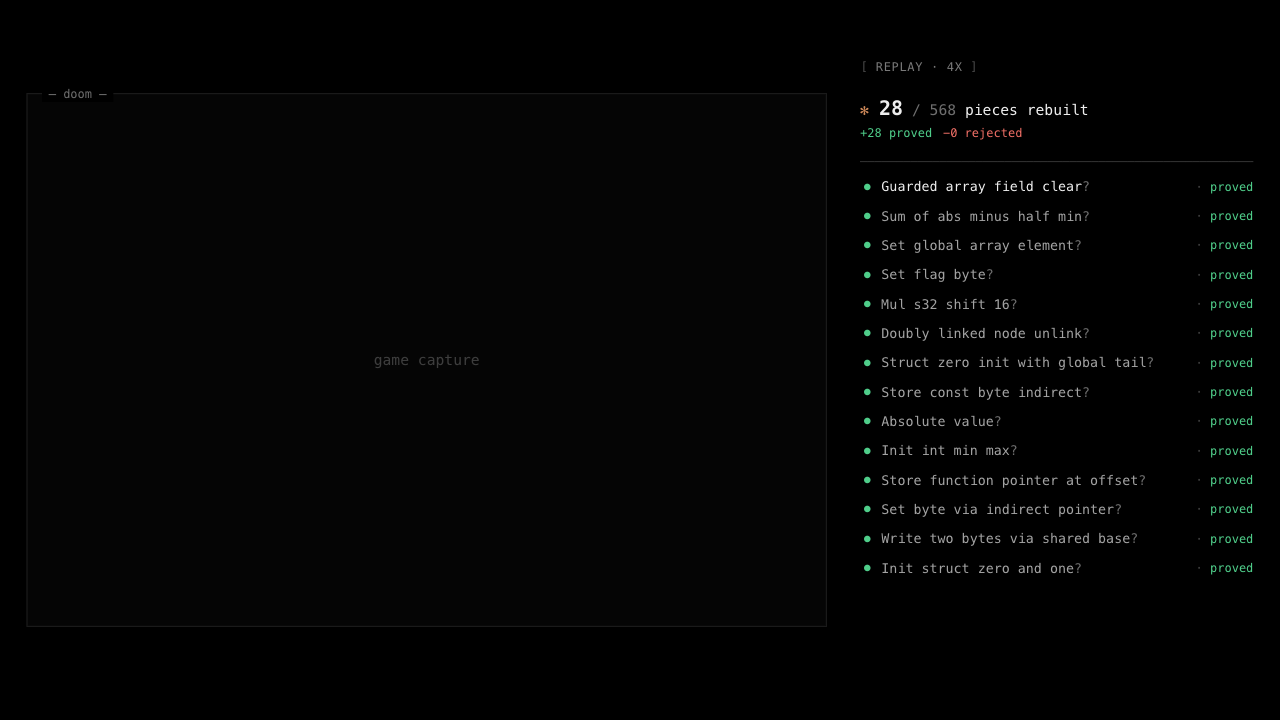
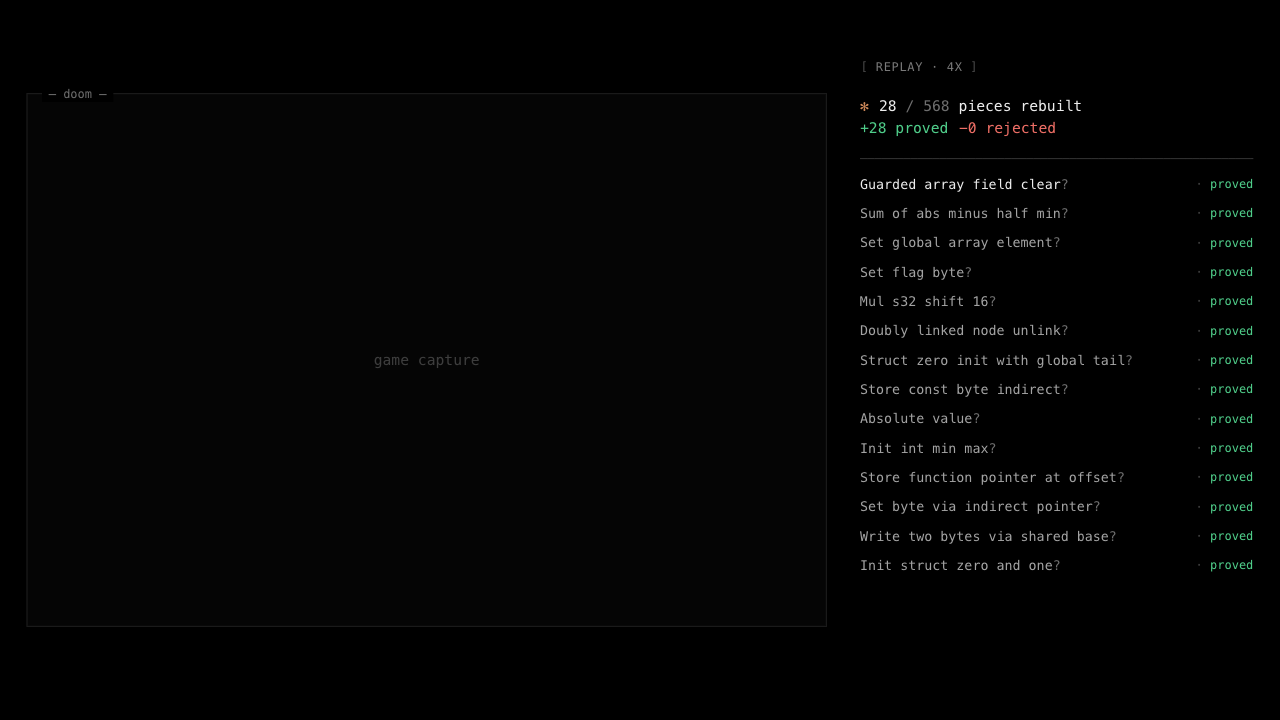
stage: drop the dots before log entries; name first, verdict on the right

diff --git a/stage/src/scenes/log.ts b/stage/src/scenes/log.ts
@@ -67,8 +67,8 @@ export class LogScene implements Scene {
           const n = nameOf(ctx, e.fn);
           const name = `<span class="nm${n.guess ? ' guess' : ''}">${esc(n.text)}${n.guess ? '<em>?</em>' : ''}</span>`;
           return e.ok
-            ? `<li class="ok"><i>⏺</i>${name}<span class="st">proved</span></li>`
-            : `<li class="no"><i>⏺</i>${name}<span class="st">rejected</span><span class="why"><u>⎿</u>${esc(e.why)}</span></li>`;
+            ? `<li class="ok">${name}<span class="st">proved</span></li>`
+            : `<li class="no">${name}<span class="st">rejected</span><span class="why"><u>⎿</u>${esc(e.why)}</span></li>`;
         }).join('')
       : '<li class="wait">Waiting for the first piece…</li>';
   }

diff --git a/stage/src/scenes/log.css b/stage/src/scenes/log.css
@@ -80,3 +80,6 @@ body.obs .lg-game .ttl { display: none; }
 .stage[data-scene='log'] #mark, .stage[data-scene='card'] #mark { border: 0; border-radius: 0; padding: 0; color: #7a7a7a; }
 .stage[data-scene='log'] #mark::before, .stage[data-scene='card'] #mark::before { content: '[ '; color: #4a4a4a; }
 .stage[data-scene='log'] #mark::after, .stage[data-scene='card'] #mark::after { content: ' ]'; color: #4a4a4a; }
+/* no bullets: name, then the verdict */
+.lg-log li { grid-template-columns: minmax(0, 1fr) auto; }
+.lg-log li.no .why { grid-column: 1 / 3; }
